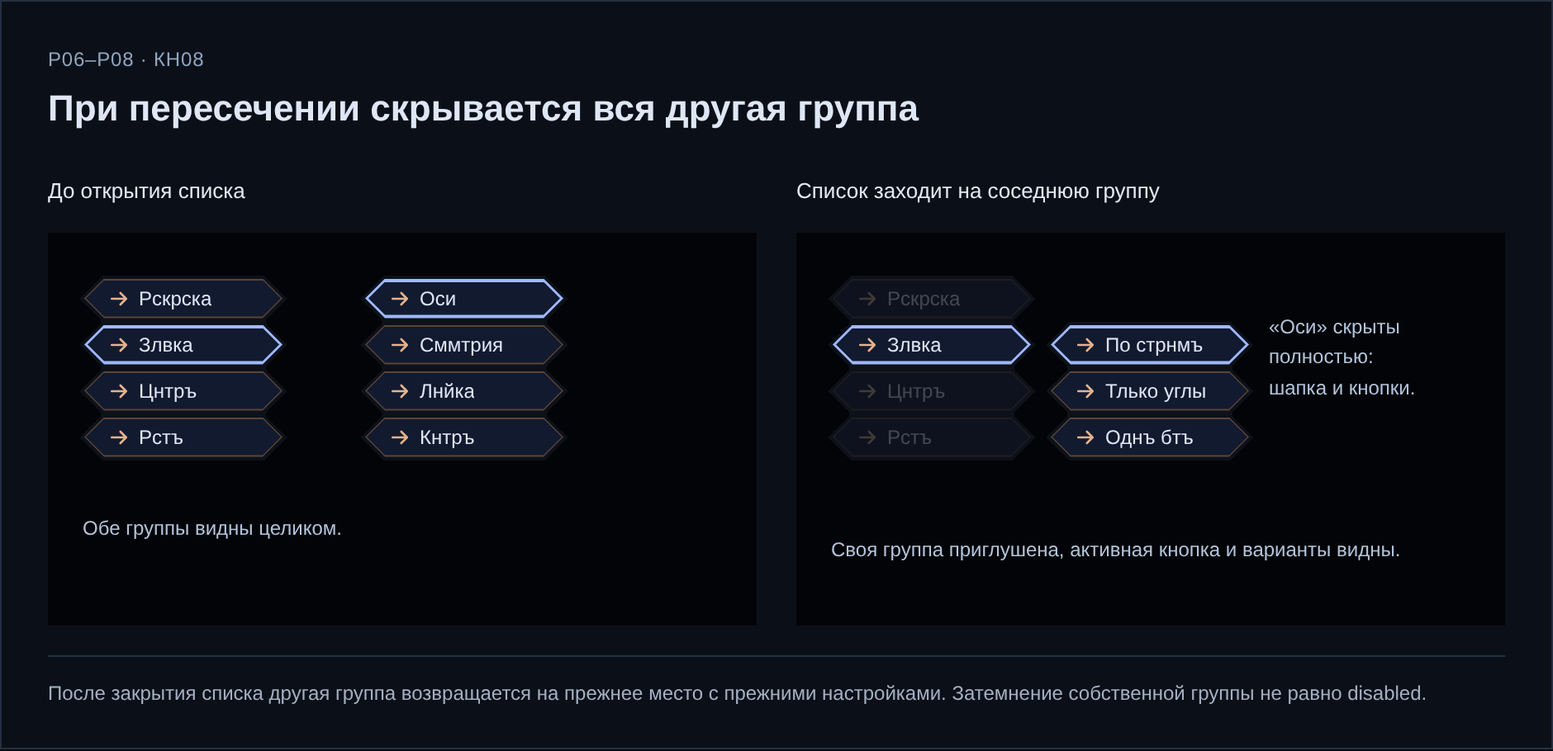
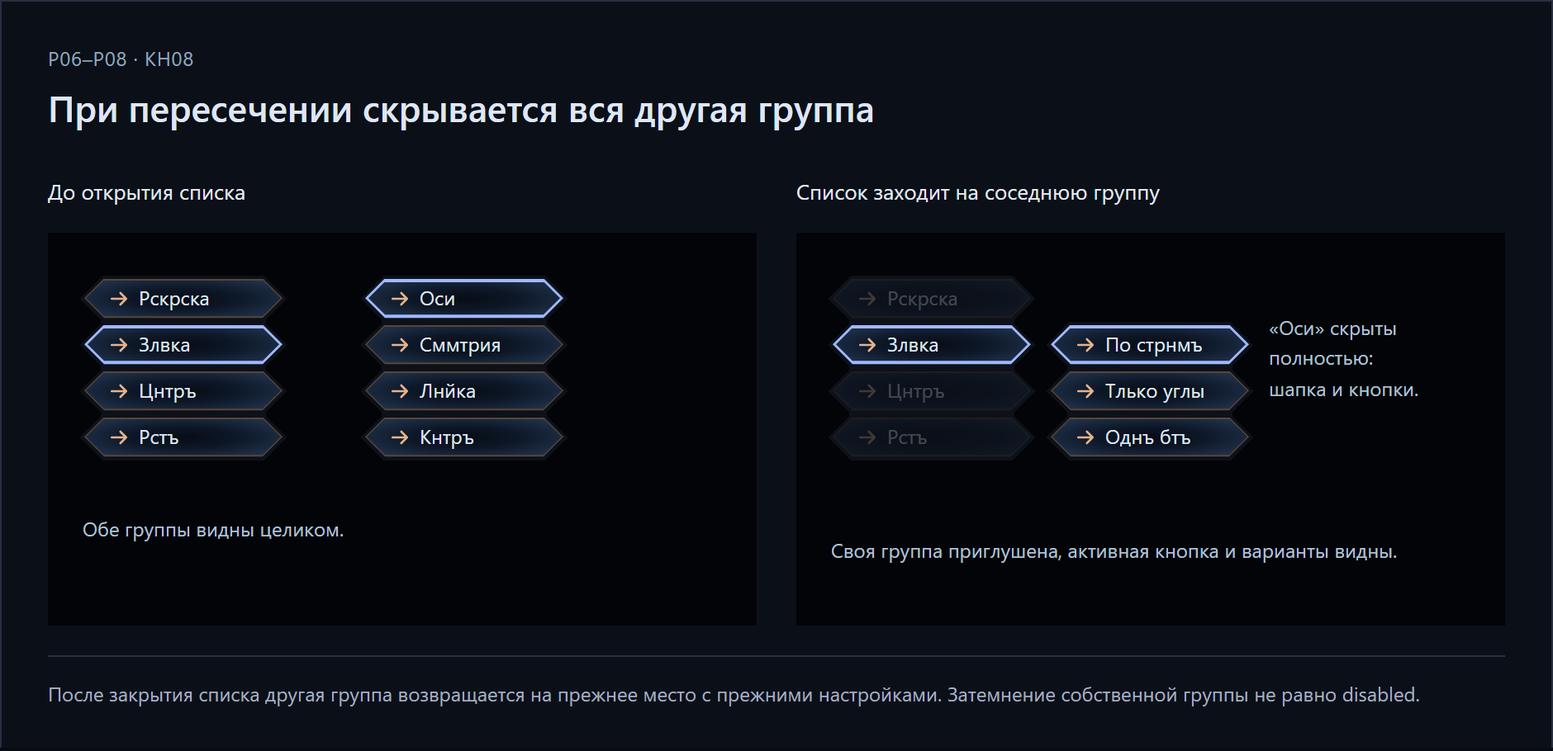
docs: refresh all button examples with selected gradient

diff --git a/knopki/standart/index.html b/knopki/standart/index.html
@@ -1,30 +1,34 @@
-<!doctype html><html lang="ru"><head><meta charset="utf-8"><meta name="viewport" content="width=device-width,initial-scale=1"><title>Кнопки Zerkalius — иллюстрации стандарта</title><link rel="stylesheet" href="../../_js/grozd.css"><style>
-:root{color-scheme:dark;--page:#080b11;--text:#dfe6f5;--mut:#a5afc2;--orange:#ff9b50;--blue:#7cc7ff}
+<!doctype html><!-- Витрина стандарта v1.001 · градиент В07 · 2026-10-23 --><html lang="ru"><head><meta charset="utf-8"><meta name="viewport" content="width=device-width,initial-scale=1"><title>Кнопки Zerkalius — иллюстрации стандарта v1.001</title><link rel="stylesheet" href="../../_js/grozd.css"><style>
+:root{color-scheme:dark;--page:#080b11;--text:#dfe6f5;--mut:#a5afc2;--orange:#ff9b50;--blue:#7cc7ff;--surface:radial-gradient(ellipse at center,#080d16 0%,#0d1727 38%,#263b58 100%);--range-surface:radial-gradient(ellipse at center,#081411 0%,#10251f 38%,#2b5043 100%)}
 *{box-sizing:border-box}html,body{margin:0;background:var(--page);color:var(--text);font:14px/1.45 "Segoe UI",Arial,sans-serif}
 body{padding:24px}main{width:940px;margin:auto}h1{font-size:26px;margin:0 0 8px}h2{font-size:22px;font-weight:600;margin:4px 0 0}p{margin:12px 0;color:var(--mut)}a{color:var(--blue)}.intro{max-width:850px;margin-bottom:28px}.figure{width:940px;margin:18px 0;background:#0b1018;border:1px solid #263041;padding:24px 28px;overflow:hidden}.figure-top{margin:0 0 25px}.eyebrow{color:#91a5bf;font-size:12px;letter-spacing:.4px}.figure-foot{border-top:1px solid #253042;padding-top:13px;margin:18px 0 0;font-size:12px;line-height:1.55}
 .figure label{display:block;color:#e2e8f2;font-size:13px;margin-bottom:14px;min-height:20px}.state-grid{display:grid;grid-template-columns:repeat(5,1fr);gap:12px}.figure small{display:block;font-size:11px;color:var(--mut);margin-top:14px}.constant-note{margin-top:22px;border-left:2px solid #7cc7ff;padding:6px 12px;color:#c6d7ec;font-size:13px}.two-examples{display:grid;grid-template-columns:1fr 1fr;gap:24px}.example{min-width:0}.example strong{font-size:15px}.good{color:#83dfb3}.bad-title{color:#ff868b}.example p{font-size:12px;line-height:1.6}
 .ref-button,.ref-pair,.ref-range{--c:var(--orange);--gz-w:120px;--gz-h:24px;--gz-n:12px;--gz-bg:#121a30;--gz-txt:#dfe6f5;--gz-mut:#8592ad;--outline:#5a4536;--stroke:1px;position:relative;display:flex;align-items:center;width:120px;min-width:120px;max-width:120px;height:24px;min-height:24px;max-height:24px;flex:none;margin:0;padding:0 11px 0 13px;gap:5px;border:0;border-radius:0;background:var(--outline)!important;color:var(--gz-txt)!important;font:12px/1.2 "Segoe UI",Arial,sans-serif;clip-path:polygon(12px 0,calc(100% - 12px) 0,100% 50%,calc(100% - 12px) 100%,12px 100%,0 50%);filter:none!important;box-shadow:none!important;text-shadow:none!important;cursor:pointer;isolation:isolate}
-.ref-button::before,.ref-pair::before,.ref-range::before{content:"";position:absolute;inset:var(--stroke)!important;z-index:-1;pointer-events:none;background:#121a30!important;clip-path:polygon(calc(12px - var(--stroke)) 0,calc(100% - 12px + var(--stroke)) 0,100% 50%,calc(100% - 12px + var(--stroke)) 100%,calc(12px - var(--stroke)) 100%,0 50%)}
+.ref-button::before,.ref-pair::before,.ref-range::before{content:"";position:absolute;inset:var(--stroke)!important;z-index:-1;pointer-events:none;background:var(--surface)!important;clip-path:polygon(calc(12px - var(--stroke)) 0,calc(100% - 12px + var(--stroke)) 0,100% 50%,calc(100% - 12px + var(--stroke)) 100%,calc(12px - var(--stroke)) 100%,0 50%)}
 .ref-button>*{position:relative;z-index:1;filter:none!important;text-shadow:none!important}.ref-button .gz-ic{width:15px;height:15px;display:flex;align-items:center;justify-content:center;flex:none;color:#e4b38d}.ref-button .gz-ic svg{width:14px;height:14px;fill:none;stroke:currentColor;stroke-width:1.5;stroke-linejoin:round;stroke-linecap:round}.ref-button .gz-nm{white-space:nowrap;overflow:hidden;text-overflow:ellipsis}
 .ref-button:is(:hover,:focus-visible,.is-hover){--outline:var(--c);--stroke:1px;outline:none}.ref-button:is(.is-on,[aria-pressed=true]){--outline:var(--c);--stroke:2px}.ref-button:is(:active,.is-down){--outline:var(--c);--stroke:3px}.button-column{position:relative;display:flex;flex-direction:column;gap:4px;width:124px;padding:0 2px;isolation:isolate}.button-column>.ref-button{position:relative;z-index:1}.group-backdrop{position:absolute;left:0;top:0;z-index:0;overflow:visible;pointer-events:none}.dim{opacity:.25}
 .dimension-demo{position:relative;width:400px;height:176px;margin-top:8px}.dimension-column{position:absolute;left:42px;top:52px}.measures{position:absolute;inset:0;width:400px;height:175px}.bad-sizing{margin:16px 0 0 20px;width:180px;padding:8px;background:#202838}.bad-sizing .ref-button+.ref-button{margin-top:9px}.bad-sizing .bad-tall{height:32px;min-height:32px;max-height:32px}.bad-sizing .bad-wide{width:158px;min-width:158px;max-width:158px}.bad-sizing .ref-button:last-child{margin-top:2px}
-.split-grid{display:grid;grid-template-columns:1fr 1fr 1.2fr;gap:30px}.ref-pair{gap:0;padding:0;--outline:#5a4536;background:#5a4536!important}.ref-pair::before{display:none}.ref-pair .gz-half{box-sizing:border-box;position:relative;isolation:isolate;display:flex;align-items:center;justify-content:center;flex:none;width:64px;height:24px;min-height:24px;padding:0 5px;font:11px/1.2 "Segoe UI",Arial,sans-serif;color:#dfe6f5!important;border:0;border-radius:0;background:#5a4536!important;text-shadow:none!important;box-shadow:none;filter:none!important;--half-stroke:1px;cursor:pointer}
+.split-grid{display:grid;grid-template-columns:1fr 1fr 1.2fr;gap:30px}.ref-pair{gap:0;padding:0;--outline:#5a4536;background:var(--surface)!important}.ref-pair::before{display:none}.ref-pair .gz-half{box-sizing:border-box;position:relative;isolation:isolate;display:flex;align-items:center;justify-content:center;flex:none;width:64px;height:24px;min-height:24px;padding:0 5px;font:11px/1.2 "Segoe UI",Arial,sans-serif;color:#dfe6f5!important;border:0;border-radius:0;background:#5a4536!important;text-shadow:none!important;box-shadow:none;filter:none!important;--half-stroke:1px;cursor:pointer}
 .ref-pair .gz-half:first-child{clip-path:polygon(12px 0,56px 0,64px 24px,12px 24px,0 12px)}.ref-pair .gz-half+.gz-half{margin-left:-8px;clip-path:polygon(0 0,52px 0,64px 12px,52px 24px,8px 24px)}
-.ref-pair .gz-half::before{content:"";position:absolute;inset:var(--half-stroke)!important;background:#121a30!important;z-index:-1;clip-path:inherit}
+.ref-pair .gz-half::before{content:"";position:absolute;inset:var(--half-stroke)!important;background:var(--surface)!important;z-index:-1;clip-path:inherit}
 .ref-pair .gz-half:is(:hover,:focus-visible){--half-stroke:1px;background:var(--c)!important;outline:none}.ref-pair .gz-half.is-on{--half-stroke:2px;background:var(--c)!important}.ref-pair .gz-half:active{--half-stroke:3px;background:var(--c)!important}
-.ref-pair .gz-half,.ref-pair .gz-half:is(.is-on,:hover,:focus-visible,:active){background:transparent!important;--half-outline:#5a4536}.ref-pair .gz-half:is(.is-on,:hover,:focus-visible,:active){--half-outline:var(--c)}.ref-pair .gz-half::before{visibility:hidden}.half-shape{position:absolute!important;inset:0;width:100%;height:100%;z-index:-1!important;pointer-events:none;overflow:visible}.half-shape polygon{fill:#121a30;stroke:var(--half-outline);stroke-width:calc(2 * var(--half-stroke));stroke-linejoin:miter}
+.ref-pair .gz-half,.ref-pair .gz-half:is(.is-on,:hover,:focus-visible,:active){background:transparent!important;--half-outline:#5a4536}.ref-pair .gz-half:is(.is-on,:hover,:focus-visible,:active){--half-outline:var(--c)}.ref-pair .gz-half::before{visibility:hidden}.half-shape{position:absolute!important;inset:0;width:100%;height:100%;z-index:-1!important;pointer-events:none;overflow:visible}.half-shape polygon{fill:transparent;stroke:var(--half-outline);stroke-width:calc(2 * var(--half-stroke));stroke-linejoin:miter}
 .ref-pair.reverse-seam .gz-half:first-child{clip-path:polygon(12px 0,100% 0,calc(100% - 8px) 100%,12px 100%,0 50%)}.ref-pair.reverse-seam .gz-half+.gz-half{clip-path:polygon(8px 0,calc(100% - 12px) 0,100% 50%,calc(100% - 12px) 100%,0 100%)}
 .palette .gz-half{gap:6px}.palette i{display:block;width:13px;height:13px;border:1px solid #94a0b6;border-radius:50%;background:var(--swatch)}
-.scene{position:relative;height:238px;background:#020408;overflow:hidden;margin-top:10px}.at{position:absolute}.annotation{position:absolute;font:12px/1.55 "Segoe UI",Arial,sans-serif;color:#b2c3d9}.scene .ref-button{--c:#a0b9ff}.scene .ref-pair{--c:#a0b9ff}.range-pad{height:86px;padding:24px 15px}.ref-range{padding:0;gap:0;overflow:visible;clip-path:none;background:transparent!important;isolation:isolate}.ref-range::before{inset:0!important;clip-path:polygon(12px 0,calc(100% - 12px) 0,100% 50%,calc(100% - 12px) 100%,12px 100%,0 50%);background:#152d28!important}.chevron{display:flex;align-items:center;justify-content:center;width:23px;height:24px;flex:none;color:#bcf1d6;font-weight:600;z-index:2}.track{position:relative;display:block;flex:1;align-self:stretch;min-width:0}.track::before{content:"";position:absolute;top:12px;left:0;right:0;border-top:1px dashed #63b395}.thumb{position:absolute;display:block;width:18px;height:22px;top:1px;margin-left:-9px;background:#86edb9;clip-path:polygon(50% 0,100% 50%,50% 100%,0 50%)}.track-value{position:absolute;inset:0;display:flex;align-items:center;justify-content:center;font-size:11px;color:white}.track-value::before{content:"";position:absolute;inset:7px 18px;background:#152d28;z-index:-1}.frame-pad{height:112px;padding:16px 12px}.frame-range{width:160px;min-width:160px;max-width:160px}.frame-value{position:absolute;top:23px;transform:translateX(-50%);color:white;font:11px/12px monospace;white-space:nowrap;background:#020408;padding:0 2px}.width-match{margin-top:25px;width:160px}.width-match .ref-pair{width:160px;min-width:160px;max-width:160px}.width-match .ref-pair .gz-half{width:84px}.width-match .ref-pair .gz-half:first-child{clip-path:polygon(12px 0,76px 0,84px 24px,12px 24px,0 12px)}.width-match .ref-pair .gz-half+.gz-half{clip-path:polygon(0 0,72px 0,84px 12px,72px 24px,8px 24px)}
+.scene{position:relative;height:238px;background:#020408;overflow:hidden;margin-top:10px}.at{position:absolute}.annotation{position:absolute;font:12px/1.55 "Segoe UI",Arial,sans-serif;color:#b2c3d9}.scene .ref-button{--c:#a0b9ff}.scene .ref-pair{--c:#a0b9ff}.range-pad{height:86px;padding:24px 15px}.ref-range{padding:0;gap:0;overflow:visible;clip-path:none;background:transparent!important;isolation:isolate}.ref-range::before{inset:0!important;clip-path:polygon(12px 0,calc(100% - 12px) 0,100% 50%,calc(100% - 12px) 100%,12px 100%,0 50%);background:var(--range-surface)!important}.chevron{display:flex;align-items:center;justify-content:center;width:23px;height:24px;flex:none;color:#bcf1d6;font-weight:600;z-index:2}.track{position:relative;display:block;flex:1;align-self:stretch;min-width:0}.track::before{content:"";position:absolute;top:12px;left:0;right:0;border-top:1px dashed #63b395}.thumb{position:absolute;display:block;width:18px;height:22px;top:1px;margin-left:-9px;background:#86edb9;clip-path:polygon(50% 0,100% 50%,50% 100%,0 50%)}.track-value{position:absolute;inset:0;display:flex;align-items:center;justify-content:center;font-size:11px;color:white}.track-value::before{content:"";position:absolute;inset:7px 18px;background:transparent;z-index:-1}.frame-pad{height:112px;padding:16px 12px}.frame-range{width:160px;min-width:160px;max-width:160px}.frame-value{position:absolute;top:23px;transform:translateX(-50%);color:white;font:11px/12px monospace;white-space:nowrap;background:#020408;padding:0 2px}.width-match{margin-top:25px;width:160px}.width-match .ref-pair{width:160px;min-width:160px;max-width:160px}.width-match .ref-pair .gz-half{width:84px}.width-match .ref-pair .gz-half:first-child{clip-path:polygon(12px 0,76px 0,84px 24px,12px 24px,0 12px)}.width-match .ref-pair .gz-half+.gz-half{clip-path:polygon(0 0,72px 0,84px 12px,72px 24px,8px 24px)}
 .caption-examples{display:grid;grid-template-columns:180px 180px 1fr;gap:30px}.caption-examples p{line-height:28px;margin:0;font-size:13px;color:#c7d0df}.caption-note p{line-height:1.6;margin:9px 0;font-size:12px}.caption-note strong{font-size:13px}footer{margin:30px 0;color:var(--mut);font-size:12px}
 @media(max-width:980px){body{overflow-x:auto;padding:12px}main{margin:0}.figure{margin-top:14px}}
-</style></head><body><main><h1>Кнопки: визуальные примеры к стандарту</h1><p class="intro">Эталонные схемы для <a href="../../КНОПКИ.md">КНОПКИ.md</a>. Они показывают требуемый вид, а не завершённую миграцию всех страниц. Размеры в CSS px. Из этой страницы сделаны иллюстрации; их текст связан с номерами правил.</p><section class="figure" id="states"><div class="figure-top"><span class="eyebrow">В07–В11</span><h2>Состояние показывает только обводка</h2></div><div class="state-grid">
+
+/* В07: одна поверхность при всех состояниях; линия посередине не рисуется. */
+.ref-button::before{background-size:120px 24px!important;background-position:center!important}
+.ref-pair.gz-hx.gz-pair.gz-split{background:var(--surface)!important}
+</style></head><body><main><h1>Кнопки: визуальные примеры к стандарту</h1><p class="intro">Эталонные схемы для <a href="../../КНОПКИ.md">КНОПКИ.md</a>. Они показывают требуемый вид, а не завершённую миграцию всех страниц. Размеры в CSS px. Версия витрины 1.001: все семь схем обновлены под В07 — тёмный центр, плавно светлее к краям, без центральной линии. Состояние меняет только обводку.</p><section class="figure" id="states"><div class="figure-top"><span class="eyebrow">В07–В11</span><h2>Состояние показывает только обводка</h2></div><div class="state-grid">
 <div><label>Обычная</label><button type="button" class="gz-hx ref-button " title="Центр 1" data-state=rest><span class="gz-ic"><svg viewBox="0 0 16 16" aria-hidden="true"><path d="M3 8h10M9 4l4 4-4 4"/></svg></span><span class="gz-nm">Центр 1</span></button><small>Спокойная рамка</small></div>
 <div><label>Наведение</label><button type="button" class="gz-hx ref-button is-hover" title="Центр 1" data-state=hover><span class="gz-ic"><svg viewBox="0 0 16 16" aria-hidden="true"><path d="M3 8h10M9 4l4 4-4 4"/></svg></span><span class="gz-nm">Центр 1</span></button><small>Цветная рамка 1 px</small></div>
 <div><label>Включена</label><button type="button" class="gz-hx ref-button is-on" title="Центр 1" data-state=on><span class="gz-ic"><svg viewBox="0 0 16 16" aria-hidden="true"><path d="M3 8h10M9 4l4 4-4 4"/></svg></span><span class="gz-nm">Центр 1</span></button><small>Рамка 2 px</small></div>
 <div><label>Включена + наведение</label><button type="button" class="gz-hx ref-button is-on is-hover" title="Центр 1" data-state=on-hover><span class="gz-ic"><svg viewBox="0 0 16 16" aria-hidden="true"><path d="M3 8h10M9 4l4 4-4 4"/></svg></span><span class="gz-nm">Центр 1</span></button><small>Остаётся 2 px</small></div>
 <div><label>Удержание</label><button type="button" class="gz-hx ref-button is-down" title="Центр 1" data-state=down><span class="gz-ic"><svg viewBox="0 0 16 16" aria-hidden="true"><path d="M3 8h10M9 4l4 4-4 4"/></svg></span><span class="gz-nm">Центр 1</span></button><small>Рамка 3 px</small></div>
-</div><div class="constant-note">Одинаковые фон, цвет текста и габариты во всех пяти состояниях.</div><p class="figure-foot">Размеры и толщины здесь заданы в CSS px; изображение сохранено в масштабе 2× для чёткости.</p></section><section class="figure" id="sizing"><div class="figure-top"><span class="eyebrow">В01–В06 · В12–В13</span><h2>Один размер, равные интервалы, зубчатая подложка</h2></div><div class="two-examples">
+</div><div class="constant-note">Одинаковый градиент во всех пяти состояниях: тёмный центр → светлее к краям. Текст и габариты неизменны.</div><p class="figure-foot">Размеры и толщины здесь заданы в CSS px; изображение сохранено в масштабе 2× для чёткости.</p></section><section class="figure" id="sizing"><div class="figure-top"><span class="eyebrow">В01–В06 · В12–В13</span><h2>Один размер, равные интервалы, зубчатая подложка</h2></div><div class="two-examples">
 <div class="example"><strong class="good">✓ Правильно</strong><div class="dimension-demo">
 <svg class="measures" viewBox="0 0 400 175" aria-hidden="true"><g fill="none" stroke="#7cc7ff" stroke-width="1"><path d="M44 32H164M44 27V37M164 27V37M181 52V76M176 52H186M176 76H186M170 76H205V80H170M42 116H44M42 111V121M44 111V121M35 116H20V170H205V146"/></g><g fill="#b5d9ff" font-size="12" font-family="Segoe UI,sans-serif"><text x="80" y="23">120 px</text><text x="191" y="68">24 px</text><text x="215" y="83">Зазор 4 px</text><text x="215" y="151">Подложка сбоку 2 px</text></g></svg>
 <div class="dimension-column"><div class="button-column backed"><button type="button" class="gz-hx ref-button " title="Оси" ><span class="gz-ic"><svg viewBox="0 0 16 16" aria-hidden="true"><path d="M3 8h10M9 4l4 4-4 4"/></svg></span><span class="gz-nm">Оси</span></button><button type="button" class="gz-hx ref-button " title="Симметрия" ><span class="gz-ic"><svg viewBox="0 0 16 16" aria-hidden="true"><path d="M3 8h10M9 4l4 4-4 4"/></svg></span><span class="gz-nm">Симметрия</span></button><button type="button" class="gz-hx ref-button is-on " title="Показать оси" ><span class="gz-ic"><svg viewBox="0 0 16 16" aria-hidden="true"><path d="M3 8h10M9 4l4 4-4 4"/></svg></span><span class="gz-nm">Показать оси</span></button><button type="button" class="gz-hx ref-button " title="Линейка" ><span class="gz-ic"><svg viewBox="0 0 16 16" aria-hidden="true"><path d="M3 8h10M9 4l4 4-4 4"/></svg></span><span class="gz-nm">Линейка</span></button></div></div></div></div>

diff --git a/КНОПКИ.md b/КНОПКИ.md
@@ -1,6 +1,6 @@
 # Единый стандарт кнопок Zerkalius
 
-Версия 4 · 2026-10-23 · задачи КНП-001, КНП-002, КНП-004 и КНП-005.
+Версия 5 · 2026-10-23 · задачи КНП-001, КНП-002, КНП-004, КНП-005 и КНП-006.
 
 Свод актуальных требований пользователя из переписки, сверенный с правилами проекта и существующими компонентами. Это норматив для последующего приведения интерфейсов к стандарту и создания новых кнопок. Запись правила не означает, что весь существующий код уже ему соответствует.
 
@@ -14,7 +14,7 @@
 
 ## Иллюстрации
 
-Ниже к таблицам добавлены семь эталонных схем. Они показывают требуемый стандарт; это не заявление, что все страницы уже переделаны. Кнопки нарисованы из HTML/CSS с фиксированными размерами, без художественной перерисовки. Подписи кнопок проходят через действующий модуль сокращения Хаба.
+Ниже к таблицам добавлены семь эталонных схем; все обновлены под градиент В07 (витрина v1.001). Они показывают требуемый стандарт; это не заявление, что все страницы уже переделаны. Кнопки нарисованы из HTML/CSS с фиксированными размерами, без художественной перерисовки. Подписи кнопок проходят через действующий модуль сокращения Хаба.
 
 Изображения сохранены в масштабе 2× для чёткости. **Числа на схемах — CSS px**, а не размер картинки в пикселях. Значки в схемах условно обозначают команды; в приложениях использовать общие значки по В14. Цвет группы может различаться, правила состояния одинаковы.
 
@@ -46,15 +46,15 @@
 
 ![В07: выбранное направление градиента — тёмный центр и более светлые границы, без центральной линии](knopki/standart/gradient-reference.png)
 
-Это выбранный художественный эскиз поверхности, а не чертёж размеров: обозначение «actual size» на нём не является измерением CSS px. Точные RGB и степень контраста из трёх показанных пользователем отдельно не выбраны. Габариты, зазоры и толщина обводок задаются В03–В13. Числовые схемы ниже сохраняют значение для геометрии и состояний; их прежний плоский фон заменён этим уточнением В07. Реализация градиента в витрине и приложениях этим документированием не объявляется завершённой.
+Это выбранный художественный эскиз поверхности, а не чертёж размеров: обозначение «actual size» на нём не является измерением CSS px. Точные RGB и степень контраста из трёх показанных пользователем отдельно не выбраны. Габариты, зазоры и толщина обводок задаются В03–В13. Все семь числовых схем ниже и их HTML-источник обновлены: поверхность обычных кнопок, составных пар и ползунков имеет тёмный центр и более светлые края. У пары градиент общий на обе половины; выбор и наклон разделителя его не меняют. Цветовые образцы палитры сохраняют свои значения. Реализация в продуктовых приложениях — отдельный этап.
 
 ### Пример: состояния кнопки
 
-![В07–В11: постоянный фон и текст; рамка наведения 1 px, выбора 2 px, удержания 3 px; выбор при наведении остаётся 2 px](knopki/standart/states.png)
+![В07–В11: постоянный фон и текст; рамка наведения 1 px, выбора 2 px, удержания 3 px; выбор при наведении остаётся 2 px](knopki/standart/states.png?v=5)
 
 ### Пример: размеры, отступы и подложка
 
-![В01–В06, В12–В13: обычная кнопка 120 на 24 CSS px, зазор 4 px, зубчатая подложка выступает на 2 px сбоку; справа показан неправильный вариант](knopki/standart/sizing.png)
+![В01–В06, В12–В13: обычная кнопка 120 на 24 CSS px, зазор 4 px, зубчатая подложка выступает на 2 px сбоку; справа показан неправильный вариант](knopki/standart/sizing.png?v=5)
 
 ## Расположение, раскрытие и перекрытие
 
@@ -74,11 +74,11 @@
 
 ### Пример: направление раскрытия
 
-![Р01–Р05: слева группа раскрывается вправо, семь кнопок по высоте и продолжение следующей колонкой; варианты отдельной кнопки открываются рядом со столбцом](knopki/standart/lists.png)
+![Р01–Р05: слева группа раскрывается вправо, семь кнопок по высоте и продолжение следующей колонкой; варианты отдельной кнопки открываются рядом со столбцом](knopki/standart/lists.png?v=5)
 
 ### Пример: целиком скрытая чужая группа
 
-![Р06–Р08: до открытия видны две группы; при пересечении списка с чужой группой та скрыта вместе с заголовком, а свои остальные кнопки приглушены](knopki/standart/overlap.png)
+![Р06–Р08: до открытия видны две группы; при пересечении списка с чужой группой та скрыта вместе с заголовком, а свои остальные кнопки приглушены](knopki/standart/overlap.png?v=5)
 
 ## Надписи и подсказки
 
@@ -98,7 +98,7 @@
 
 ### Пример: подписи и сохранение
 
-![Т01–Т11, КН05–КН06: полные названия Ширина, Центр, Цвет, Заливка и Ось сопоставлены с короткими подписями; настройки и раскладка сохраняются после F5](knopki/standart/captions.png)
+![Т01–Т11, КН05–КН06: полные названия Ширина, Центр, Цвет, Заливка и Ось сопоставлены с короткими подписями; настройки и раскладка сохраняются после F5](knopki/standart/captions.png?v=5)
 
 ## Составные кнопки, палитра и поведение
 
@@ -117,7 +117,7 @@
 
 ### Пример: половины кнопки и палитры
 
-![КН01–КН04, КН10: две равные половины одной стандартной кнопки, при переключении «или–или» диагональ меняет наклон вместе с выбранной частью; в палитре серый и белый по умолчанию, синий и красный во второй части](knopki/standart/split.png)
+![КН01–КН04, КН10: две равные половины одной стандартной кнопки, при переключении «или–или» диагональ меняет наклон вместе с выбранной частью; в палитре серый и белый по умолчанию, синий и красный во второй части](knopki/standart/split.png?v=5)
 
 ## Ползунки и специальные правила Маятника
 
@@ -137,7 +137,7 @@
 
 ### Пример: значение ползунка
 
-![ПЛ01–ПЛ05: обычный ползунок со значением на дорожке; у кадра число непосредственно под бегунком, ширина равна блоку Отмена и Повтор](knopki/standart/slider.png)
+![ПЛ01–ПЛ05: обычный ползунок со значением на дорожке; у кадра число непосредственно под бегунком, ширина равна блоку Отмена и Повтор](knopki/standart/slider.png?v=5)
 
 ## Согласование с прежними требованиями
 

diff --git a/ЗАДАЧИ.md b/ЗАДАЧИ.md
@@ -211,6 +211,20 @@
   - [x] Опубликовать и подтвердить норматив и выбранный эскиз в GitHub. Коммит 4b23e2d: все шесть удалённых файлов точно совпали с Git-содержимым коммита, origin/main подтверждён.
 - Публикация подтверждена: 4b23e2d. Закрытие записано текущим коммитом. Внедрение в интерфейсы — отдельный этап.
 
+## КНП-006 — обновить остальные примеры под градиент В07
+
+- Источник: пользователь «так измени остальные в правиле примеры» после выбора тёмного центра и осветления к краям без линии.
+- Статус: проверка. Этап: публикация. Прогресс: 75% (3/4 критериев, каждый вес 1).
+- Дата: 2026-10-23 (Europe/Moscow). Исполнитель: текущий чат кнопок; без делегирования. Сложность обычная реализация/рендеринг; фактические настройки модели не подтверждены. Расход токенов: нет данных.
+- Файлы: knopki/standart/index.html v1.001, семь PNG, render.cjs и render-report.json; КНОПКИ.md v5 и документы состояния.
+- Критерии:
+  - [x] Обновить поверхность во всех семи HTML-примерах: обычные кнопки, общая поверхность половин, ползунки. Состояния и размеры сохранены; палитры сохраняют значения.
+  - [x] Пересоздать семь PNG из браузера при DPR 2, обновить подписи и версии ссылок в нормативе. Все 58 ID и КН10 сохранены.
+  - [x] Просмотреть семь схем и проверить в Chromium: 120 × 24, рамки 1/3 при наведении/удержании, неизменный градиент/текст, смену диагонали и неизменность поверхности пары; на 412 px технические схемы доступны с горизонтальной прокруткой. Ошибок JS нет; синтаксис inline-кода и renderer, diff проверены. Протокол: knopki/standart/render-report.json; снимки узкого экрана в локальном archive/knopki-standart/v1.001/.
+  - [ ] Опубликовать и подтвердить обновлённые HTML, норматив и семь PNG на GitHub и прежнем адресе.
+- Ограничения: это обновление существующих иллюстраций; отложенная КНП-003 и массовая миграция приложений не возобновляются. Выбор цвета/контраста реализован как пример, а не новая числовая норма.
+- Следующий шаг: публикация и проверка удалённых файлов/страницы.
+
 ## Шаблон новой карточки
 
 ID и название; источник поручения; цель и ожидаемый результат; приоритет; статус; этап; дата обновления; сложность и причина; назначенная/фактическая модель и уровень; исполнитель и при наличии ссылка на чат; файлы/ветка; зависимости; критерии с весами; процент с расчётом; выполненные проверки и их ограничения; препятствие; следующий шаг; коммиты; статус публикации; измеренный расход или «нет данных».

diff --git a/ЖУРНАЛ.md b/ЖУРНАЛ.md
@@ -59,3 +59,5 @@
 2026-10-23 (Europe/Moscow) · Codex, чат КНП-003 · КНП-005 — публикация 4b23e2d подтверждена: все шесть удалённых файлов побайтово совпали с содержимым Git-коммита, origin/main совпал. Норматив v4 содержит 58 уникальных ID. 3/3 = 100%; закрытие записано текущим коммитом. Внедрение поверхности в продуктовые кнопки отдельно, КНП-003 остаётся отложенной.
 
 2026-10-23 (Europe/Moscow) · Codex, координатор · ИСС-002 — рамка v0.068 опубликована в 9ae3835, вошла в успешный Pages 39865778709 следующего коммита 5582b1d. HTTP 200, версия v0.068 и вид горизонтальной линии с полной рамкой на 5 px снаружи медиа подтверждены на публичном сайте в браузере. Снимок archive/Coordinator/research-news-frame-v068.png. 4/4 = 100%, закрытие записано текущим коммитом.
+
+2026-10-23 (Europe/Moscow) · Codex, чат кнопок · КНП-006 — по просьбе пользователя градиент В07 перенесён во все семь HTML-примеров и PNG: тёмная середина, светлее к краям, без линии. У пар поверхность общая и постоянная; палитры и наклон КН10 сохранены. Витрина v1.001, свод v5, 58 ID. Семь PNG пересозданы из Chromium с DPR 2, просмотрены; размеры/состояния, диагональ, 412 px с прокруткой, синтаксис и diff проверены. 3/4 = 75%; следующее — публикация и подтверждение. Приложения и КНП-003 не менялись.

diff --git a/ПРОДОЛЖИТЬ.md b/ПРОДОЛЖИТЬ.md
@@ -14,6 +14,8 @@
 
 ## Текущая передача
 
+- КНП-006: все семь примеров и PNG обновлены под градиент В07; витрина v1.001, норматив v5. Проверены Chromium, DPR 2, 412 px с прокруткой, переключение диагонали и постоянство поверхности. 3/4 = 75%; следующий шаг — публикация и подтверждение. КНП-003 остаётся отложенной.
+
 - КНП-005: выбранный пользователем градиент закреплён в В07, КНОПКИ.md v4: тёмный центр → светлее к границам, без линии. Эскиз gradient-reference.png сохранён; прежние схемы уточнены текстом, 58 ID сохранены. 3/3 = 100%; публикация 4b23e2d подтверждена: шесть файлов сверены с Git-содержимым, origin/main совпал. Закрытие записано текущим коммитом. Внедрение отдельно; КНП-003 остаётся отложенной.
 
 - ИСС-004 завершена: у девяти рисунков схемы Серпинского показаны ширина снизу и высота слева в u; все стрелки переходов удалены. 18 размерных линий с засечками без наконечников; девять групп рисунков сохранены точно. Отчёт v0.066 сохраняет обновление видео другой сессии v0.065. Проверки SVG/PNG, 1280/412, полного просмотра и предпросмотра прошли; 100% (4/4). Публикация d97c01a подтверждена: шесть текстов сверены, PNG совпал по SHA. Закрытие записано текущим коммитом.
